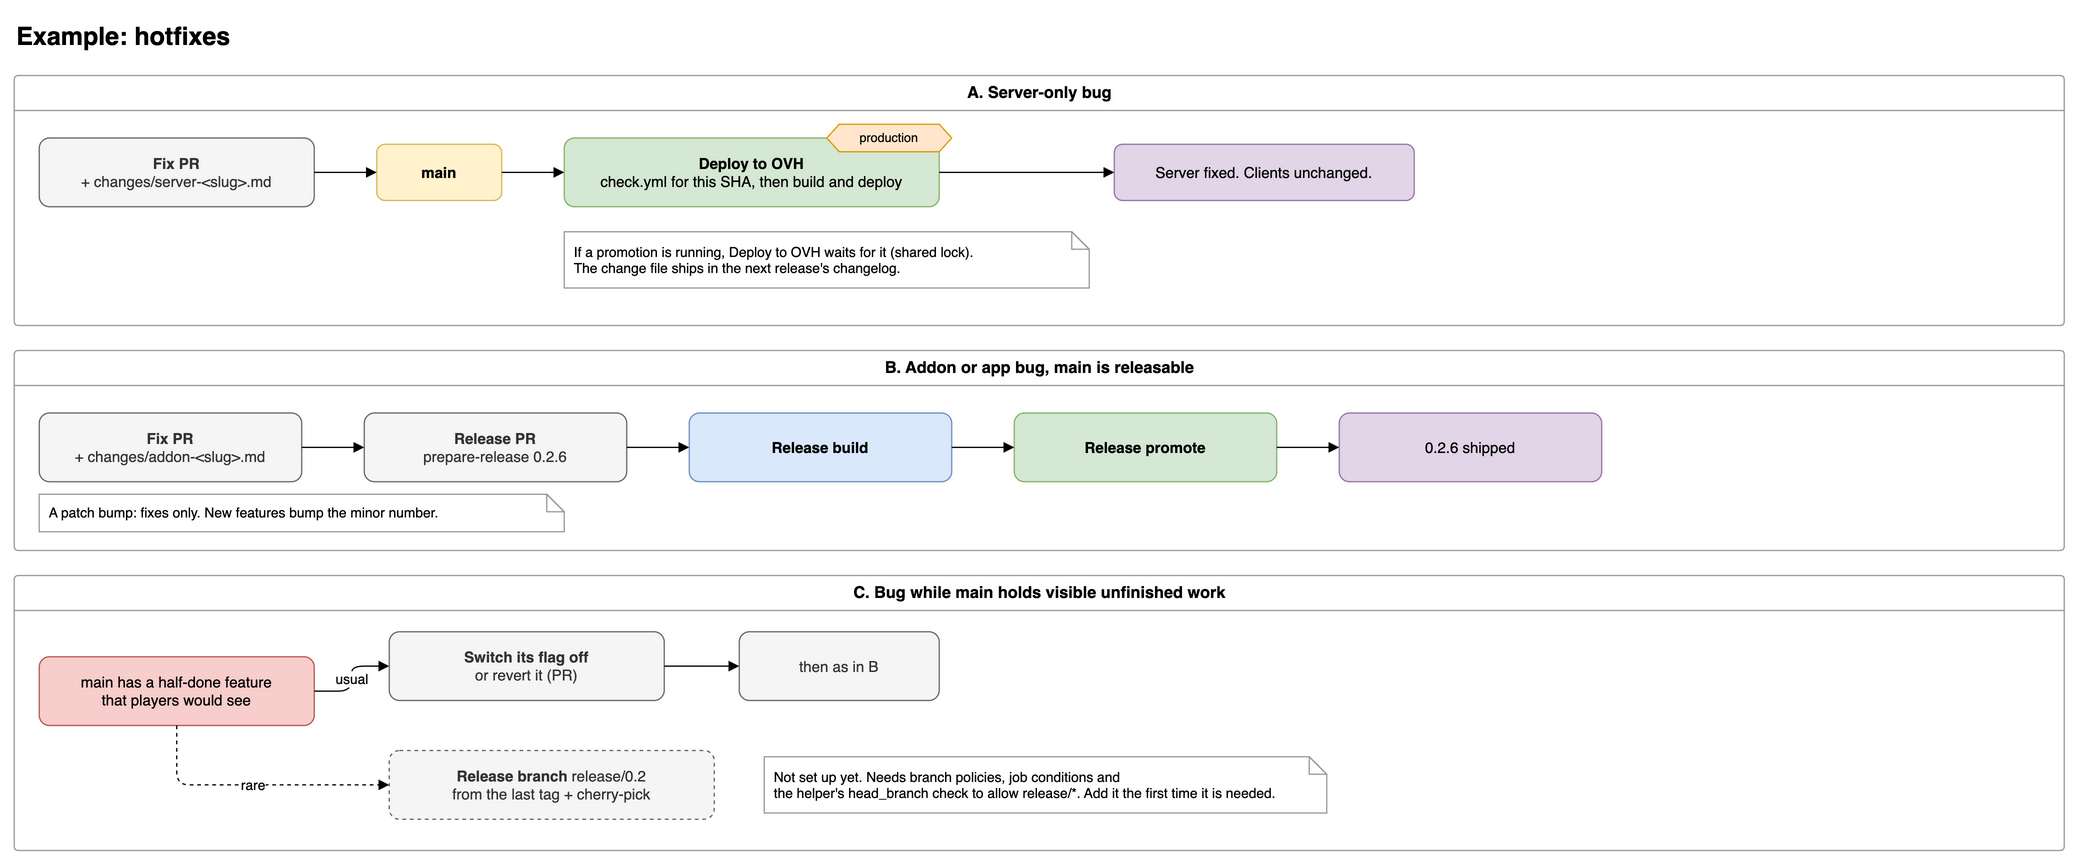
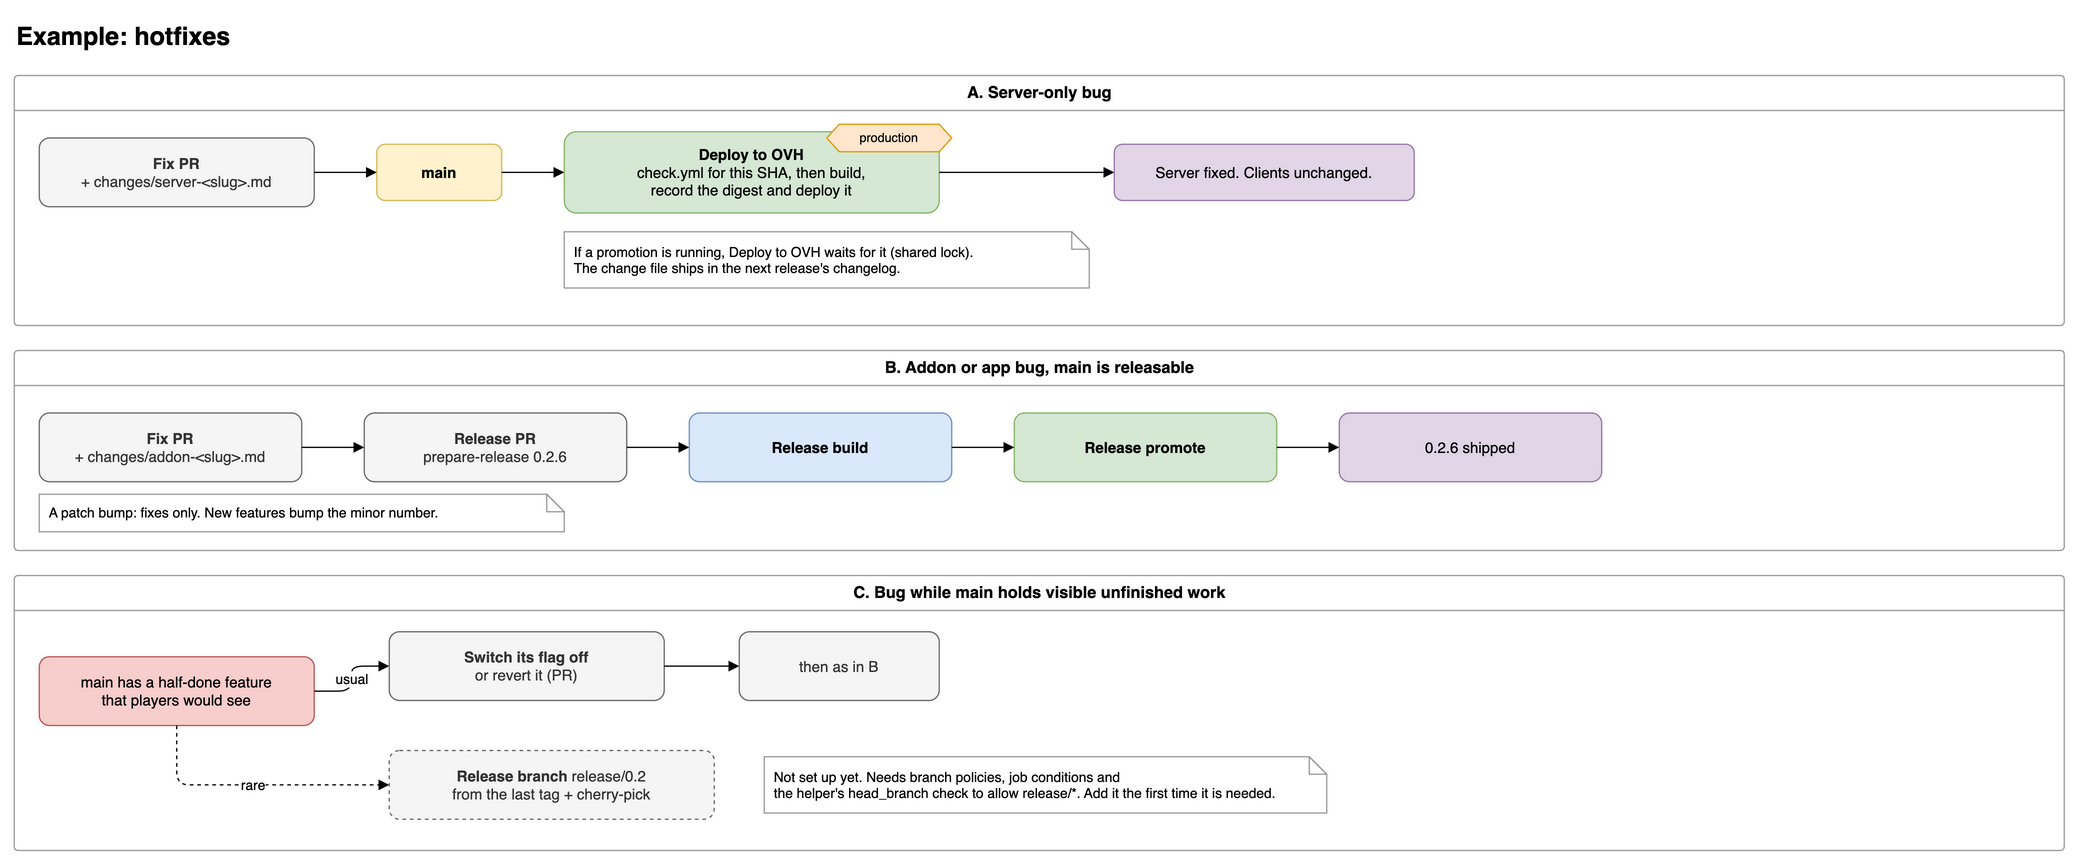
Update release flow diagrams for the image digest and the rerun refusal
The overview shows the build recording the image digest, promote deploying
that digest, guard recording its attempt and the helper refusing an older
feed. The stops page gains example E, Re-run failed jobs refused. The hotfix
page shows Deploy to OVH deploying its recorded digest. releasing.md warns
that re-promoting before the feed is published can replace a server hotfix.

Changed region(s): [[0.2772, 0.125, 0.462, 0.25]]

diff --git a/docs/releasing.md b/docs/releasing.md
@@ -146,7 +146,7 @@ stopped promote run and choose **Re-run all jobs**. Both are safe:
 
 | Stopped after | A second promotion |
 | --- | --- |
-| Server deployed | Deploys the same image again, then continues. |
+| Server deployed | Deploys the same image again, then continues. If a **Deploy to OVH** went out in between, this puts the build's older image back; reject the `server` approval and prepare a new version instead. |
 | `latest.json` published | Skips the deploy and publishes the same feed again. |
 | Both manifests published | Skips the deploy, publishes again and mirrors. |
 | Mirror pushed | Finds HEAD already holding the revision and waits for its run. |
@@ -211,6 +211,9 @@ PR with a patch bump, a build and a promotion.
 
 A fix that touches only the server can go out through **Deploy to OVH**. It
 runs the full checks for its commit first and shares the promotion lock.
+A promotion of an earlier build that has not published its feed yet would
+deploy that build's image over the fix, so finish or abandon such a promotion
+before the hotfix.
 
 When `main` is not releasable, either switch off or revert the unfinished work
 and release as above, or add release branches. A release branch is
